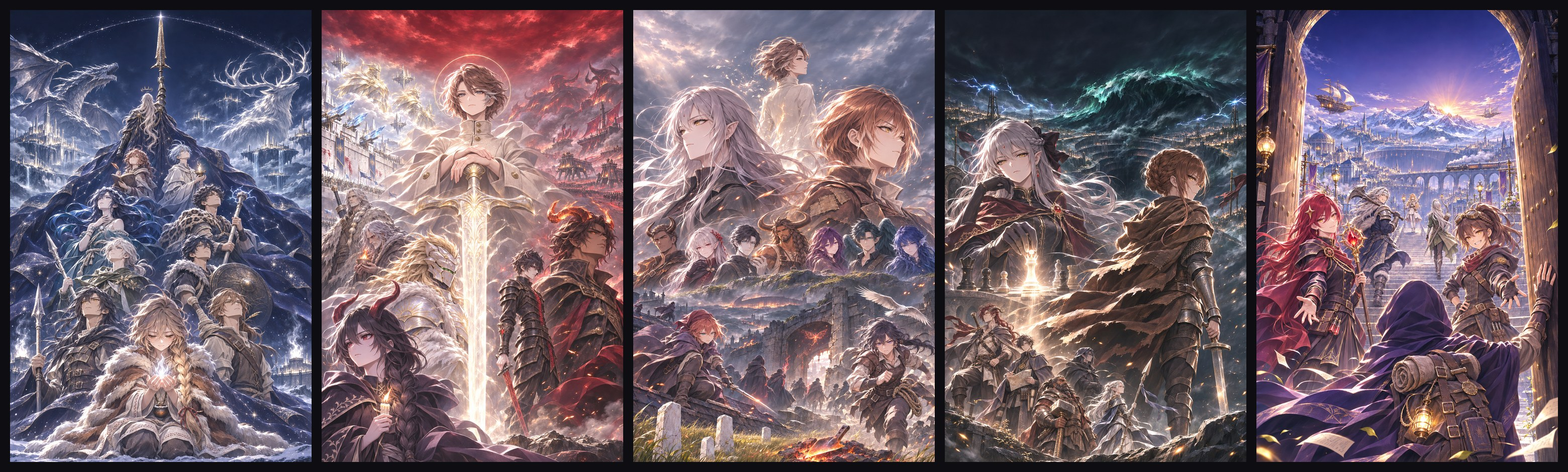
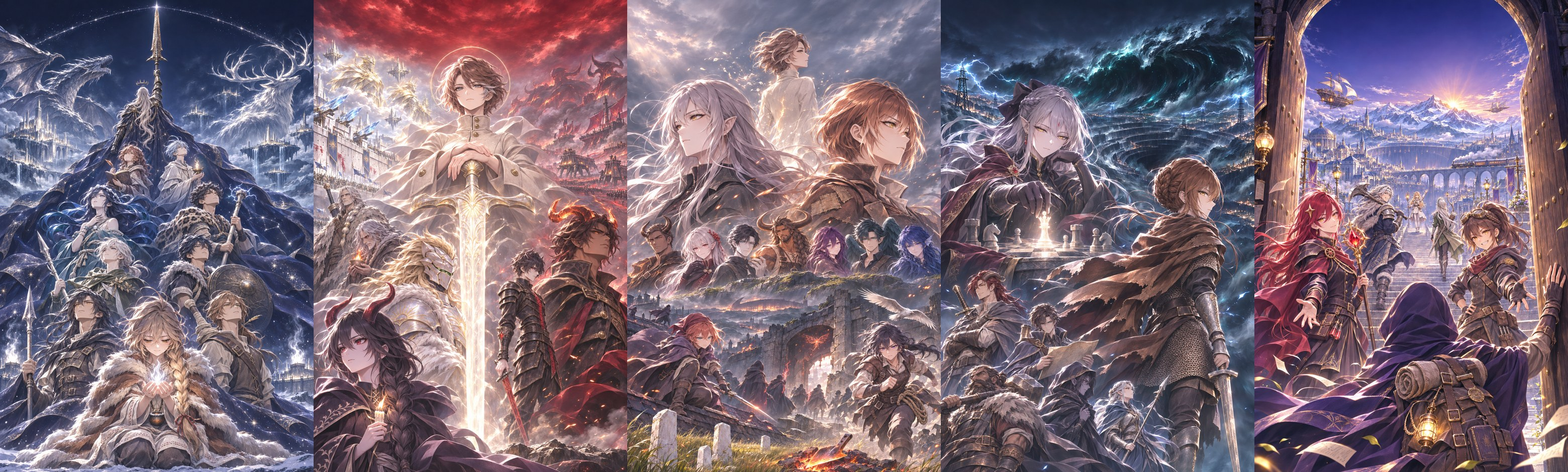
前传竖版封面换第四稿（巴尔缇娜两只手修好），日里轮换图重出

diff --git a/out/发布卡_风月_四纪/封面/说明.md b/out/发布卡_风月_四纪/封面/说明.md
@@ -176,3 +176,7 @@
 ## 山铜纪：薇瑟兰改成背影加回眸（11-26，box2_bronze6／wide2_bronze6）
 
 用户嫌上一稿薇瑟兰的人体怪（她半转着身，一只胳膊横在胸前）。别的照上一稿，脸照格子表对。薇瑟兰写死成：背对画面，只转头和上半肩、腰背不拧，露侧脸和一只眼；伤处从背上、肋侧漏光；衣摆和发梢往上散成光屑；不画光环或只画得极淡。出了两稿竖版、一稿横版，单独把她裁出来放大对过。**竖版第 2 稿过**：肩背正对我们，头越过右肩回望，看得到侧脸和一只眼，背上有一道裂开的光，两只胳膊垂在身侧、看不见手。**横版第 1 稿过**：同样是背影加回眸，只露一只手，五指对。七魔神将、约兰达、薇丝塔仍照格子表。旧的挪进 `备选_11-26第二版/薇瑟兰背影前_山铜纪/`，两张对照图已重拼。
+
+## 11-28 前传竖版换了第四稿（box2_pre5）
+
+用户说前传竖版巴尔缇娜画了两只右手（一只托腮、一只下棋），左手没了。整张重画，提示词写死她自己的左手托腮、右手落棋，棋盘上只留发光的那一颗王，别的子不带十字。出了六稿，主会话和子任务各查一遍，挑了第六、第四两稿给用户，用户定第四稿。第四稿的毛病：蝴蝶结从 y≈255 伸进标题带，标题压在顶上 13% 到 16%；女兵剑的护手直而宽，远看有点像十字。旧图挪进 `备选_11-28手部前/`。横版、背景那一稿只画了落棋的一只手，没换。日里那份轮换图（`out/发布卡_四纪大框/封面/日里_封面轮换_*`）跟着重出了。
